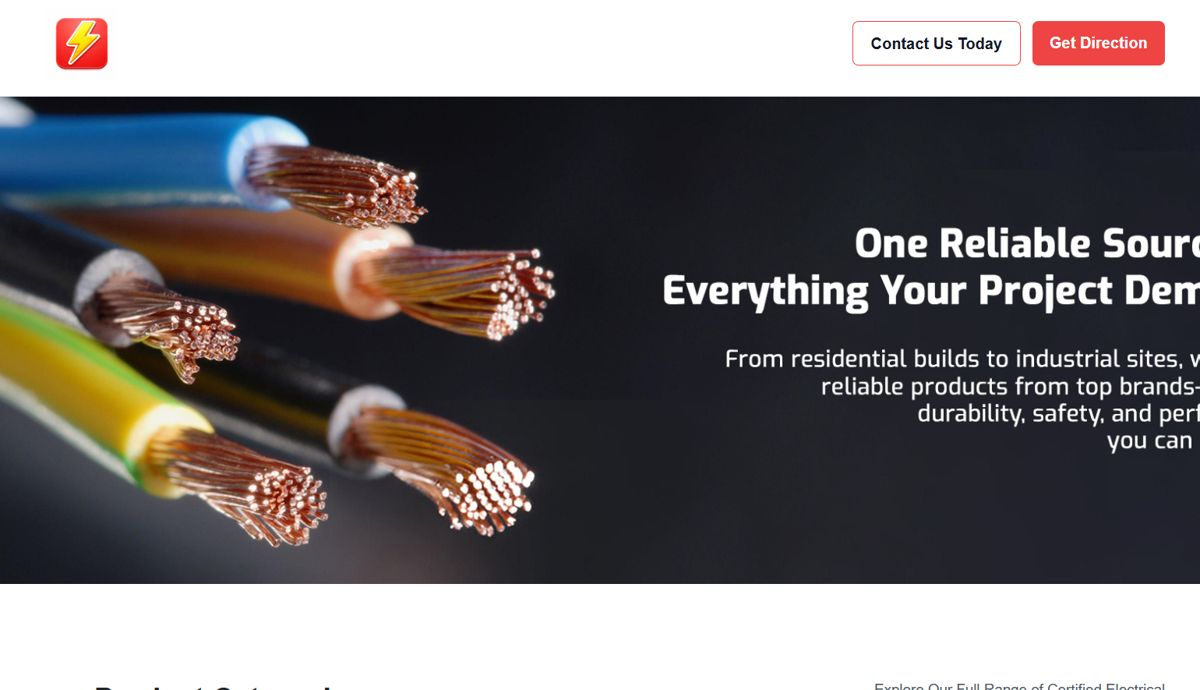
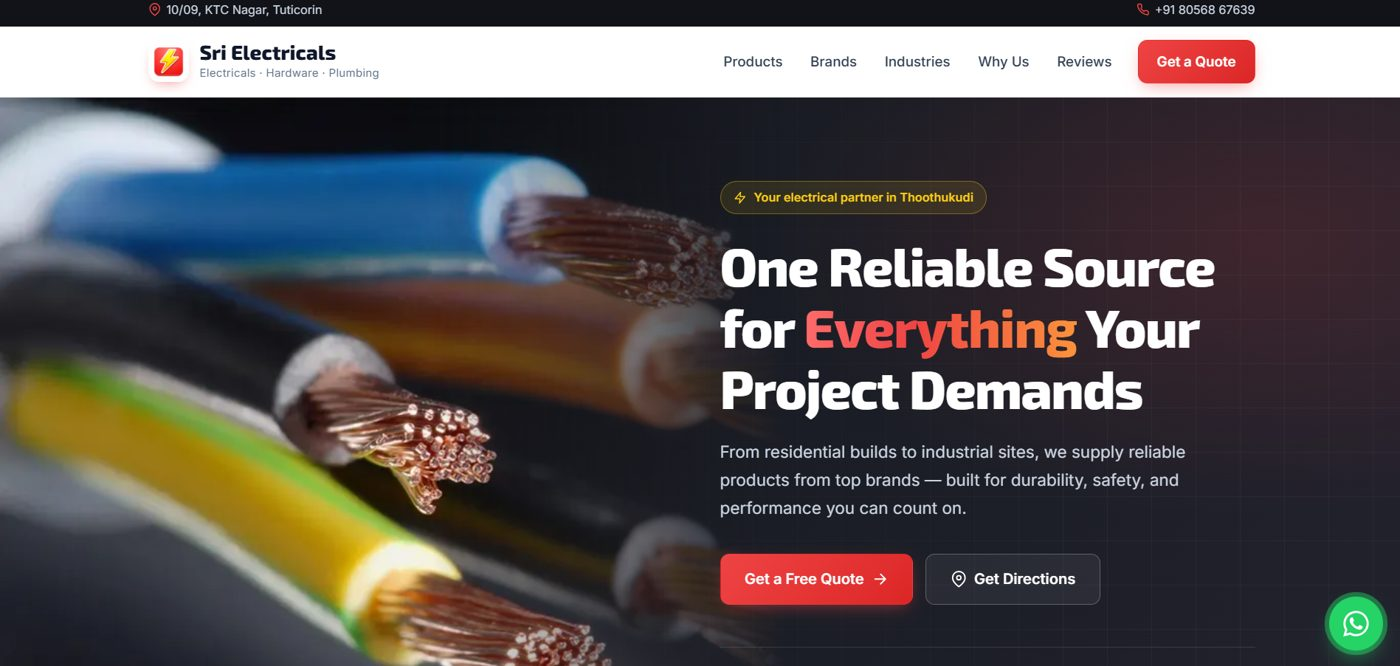
Add Smart Parking and Pets Cafe, update Sri Electricals

diff --git a/src/data.js b/src/data.js
@@ -143,8 +143,33 @@ export const skills = [
   { group: 'Data & Deploy', items: ['PostgreSQL · MySQL', 'Stripe · OAuth', 'Netlify', 'Render', 'Git · GitHub Actions'] },
 ]
 
+// Other projects, shown as cards under "More Projects".
 // image: path under /public, or null to show a drawn placeholder
 export const earlierWork = [
+  {
+    title: 'Smart Parking',
+    kind: 'Parking management app',
+    url: 'https://smart-parking-platform.netlify.app/',
+    image: '/img/smart-parking.jpg',
+    desc: 'QR-based parking: drivers scan a code to find and book a free slot, and staff check them out and send the bill in one tap, with a live floor map of free and taken slots.',
+    tags: ['Web app', 'QR booking', 'Netlify'],
+  },
+  {
+    title: 'Pets Cafe',
+    kind: 'Cafe ordering & bookings',
+    url: 'https://pet-cafe.netlify.app/',
+    image: '/img/pets-cafe.jpg',
+    desc: 'A cafe for pet lovers in Tuticorin: order from the table or for takeaway, book an hour with the dogs, cats, hamsters and love birds, with customer accounts and feedback.',
+    tags: ['Web app', 'Ordering', 'Netlify'],
+  },
+  {
+    title: 'Sri Electricals',
+    kind: 'Business website',
+    url: 'https://sri-electricals.netlify.app/',
+    image: '/img/electricals.jpg',
+    desc: 'A website for an electricals, hardware and plumbing shop in Thoothukudi: products, brands, industries served, reviews, quote requests, directions and WhatsApp chat.',
+    tags: ['React', 'CSS3', 'Netlify'],
+  },
   {
     title: 'Interiors',
     kind: 'Interior design',
@@ -160,13 +185,5 @@ export const earlierWork = [
     image: '/img/watches.jpg',
     desc: 'A premium watch showcase with sections on craftsmanship and design, smooth scroll animations and a luxury feel.',
     tags: ['HTML5', 'CSS3', 'JavaScript'],
-  },
-  {
-    title: 'Sri Electricals',
-    kind: 'Business website',
-    url: 'https://sri-electricals.netlify.app/',
-    image: '/img/electricals.jpg',
-    desc: 'A business website for an electrical shop, with services, product categories and a contact section.',
-    tags: ['React', 'CSS3', 'Netlify'],
   },
 ]

diff --git a/src/styles.css b/src/styles.css
@@ -216,7 +216,7 @@ section{padding:120px 64px;max-width:1200px;margin:0 auto;}
 .mini-grid{display:grid;grid-template-columns:repeat(3,1fr);gap:24px;}
 .mini{border:1px solid var(--line);text-decoration:none;color:inherit;display:flex;flex-direction:column;transition:border-color .3s,transform .3s;}
 .mini:hover{border-color:var(--accent);transform:translateY(-3px);}
-.mini-img{aspect-ratio:16/10;background:var(--surface);overflow:hidden;border-bottom:1px solid var(--line);display:flex;align-items:center;justify-content:center;}
+.mini-img{aspect-ratio:2/1;background:var(--surface);overflow:hidden;border-bottom:1px solid var(--line);display:flex;align-items:center;justify-content:center;}
 .mini-img img{width:100%;height:100%;object-fit:cover;object-position:top;display:block;transition:transform .6s;}
 .mini:hover .mini-img img{transform:scale(1.04);}
 .mini-body{padding:26px 26px 28px;flex:1;display:flex;flex-direction:column;}

diff --git a/src/components/Sections.jsx b/src/components/Sections.jsx
@@ -136,7 +136,7 @@ function SiteMock() {
 export function EarlierWork() {
   return (
     <section id="earlier">
-      <Heading label="Earlier Work">Live <em>websites</em></Heading>
+      <Heading label="More Projects">Apps &amp; <em>websites</em></Heading>
       <div className="mini-grid reveal" style={{ transitionDelay: '.1s' }}>
         {earlierWork.map((w, i) => (
           <a className="mini" href={w.url} target="_blank" rel="noopener" key={w.title}>
